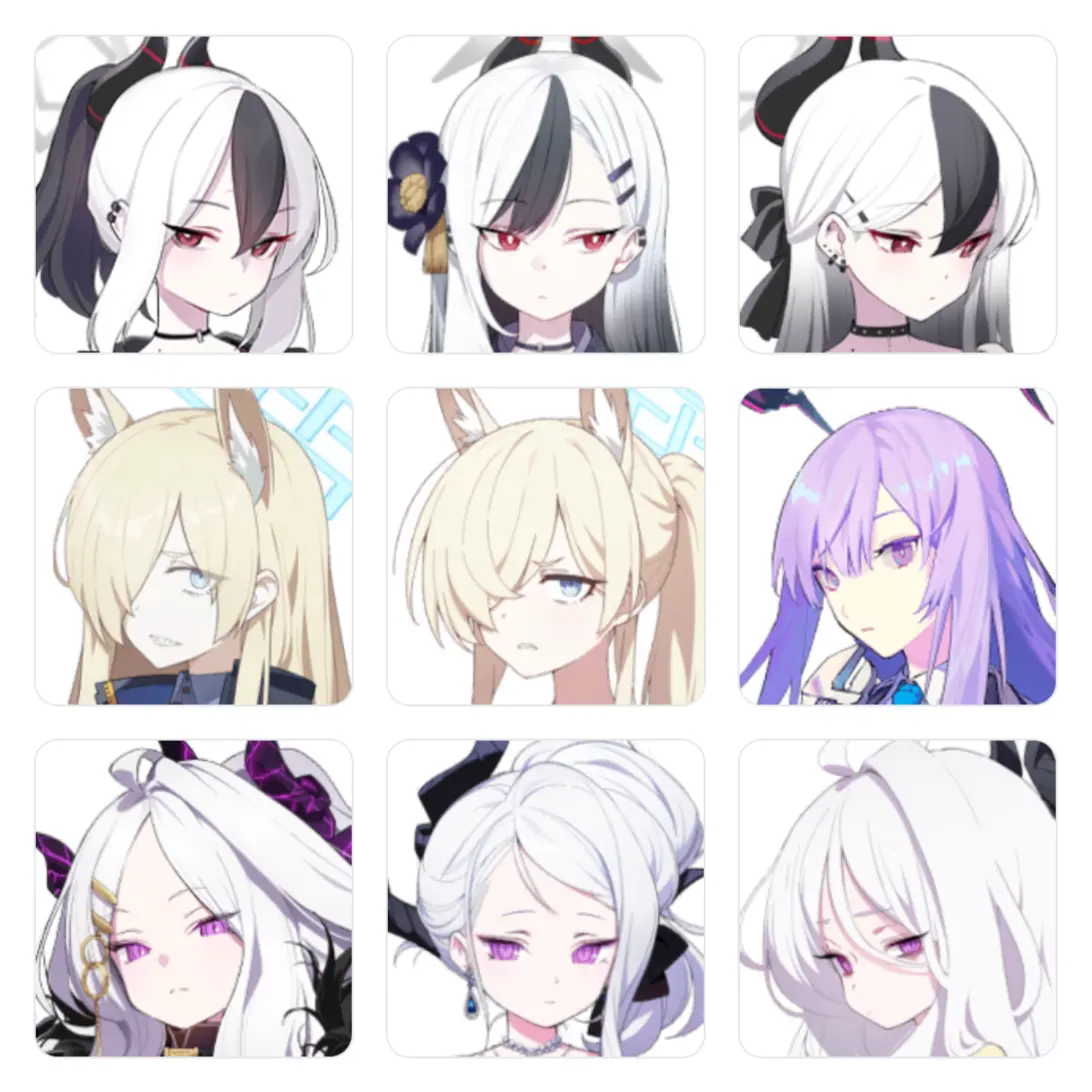
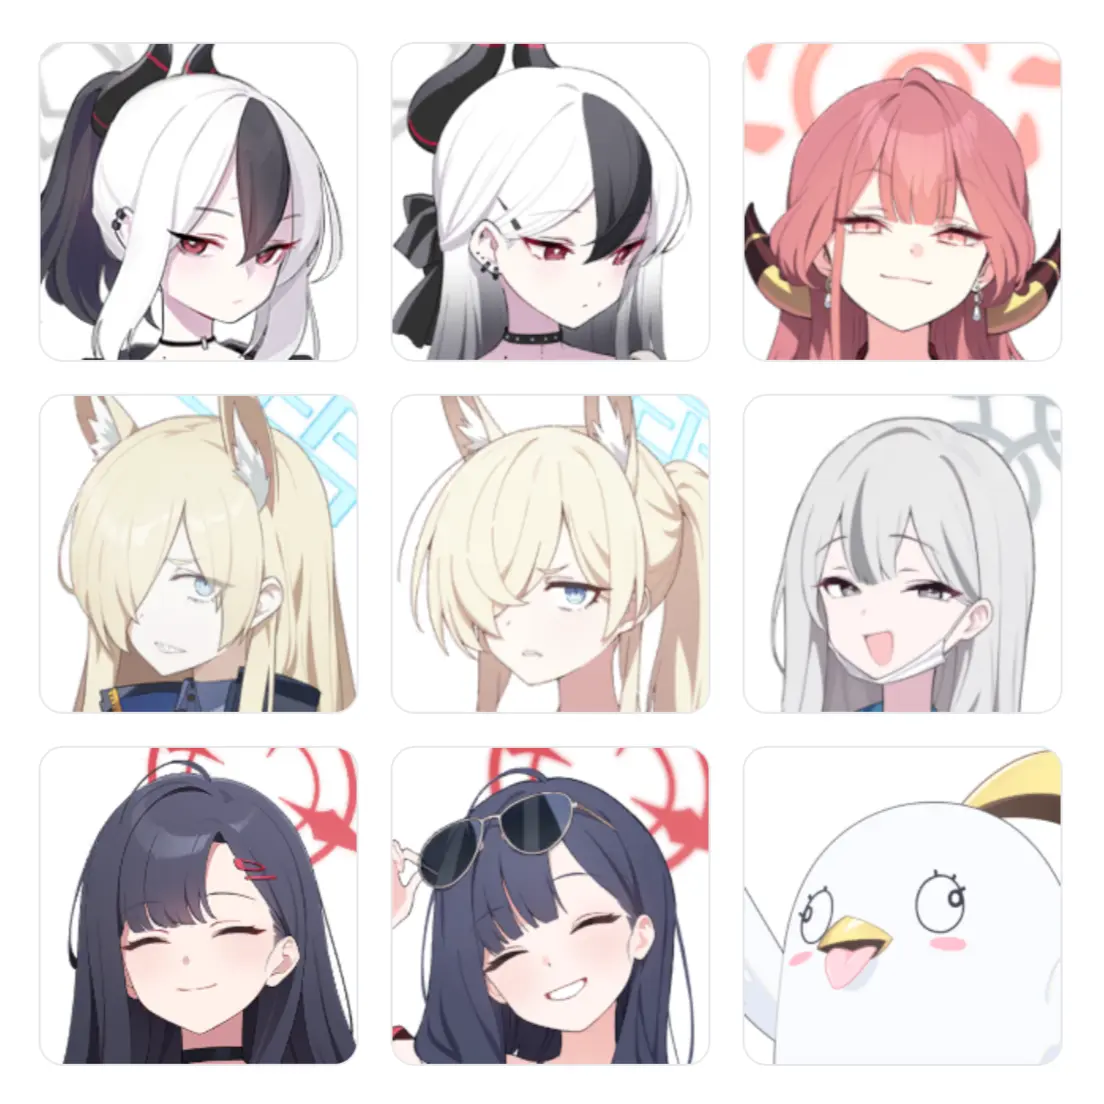
docs: 自己を正しく開示

diff --git a/docs/about.md b/docs/about.md
@@ -39,7 +39,7 @@ lastUpdated: false
 | [X](https://x.com/asumo_1xts)           | `@asumo_1xts` <br/> DMあまり気付けません |
 | [GitHub](https://github.com/asumo-1xts) | `@asumo-1xts` <br/> ハイフンにご注意！   |
 
-::: details 「私を構成する〇つの××」集
+::: details さらなる自己開示
 
 <ImageGroup
   :sources="[
